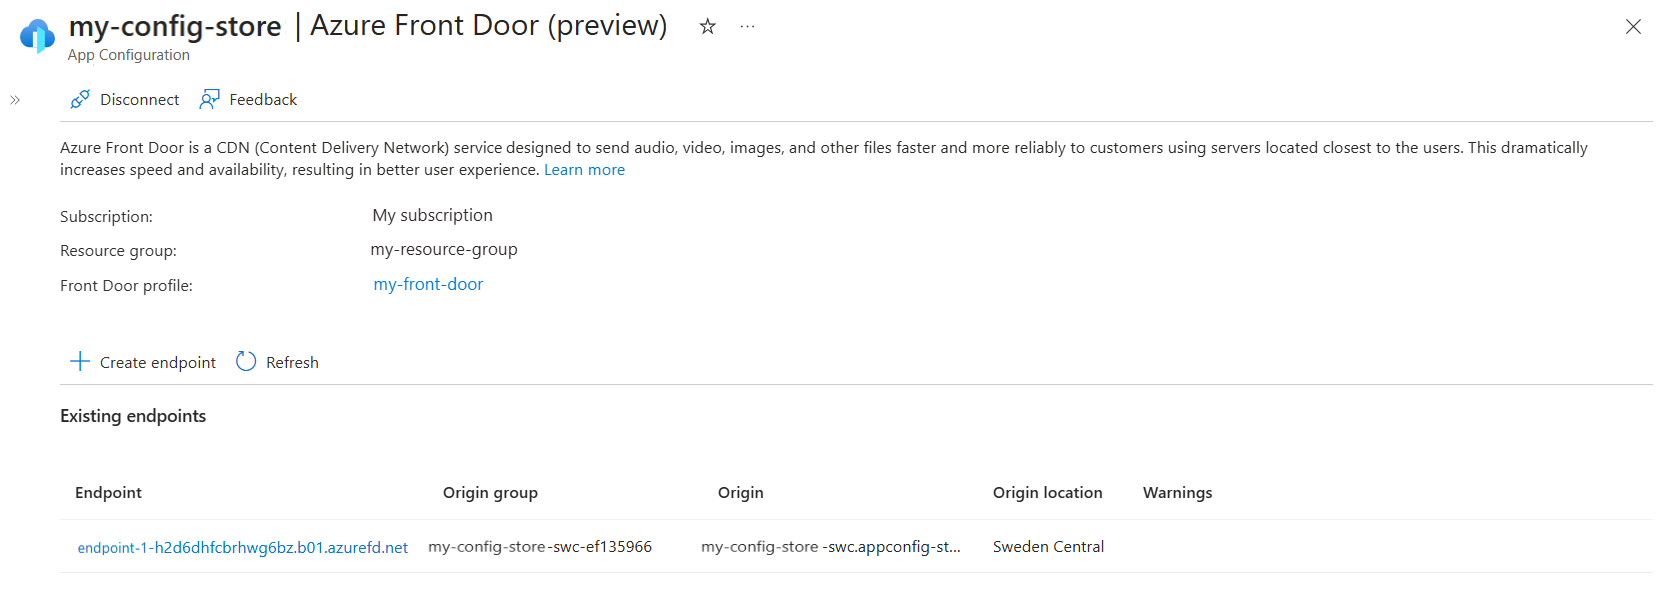
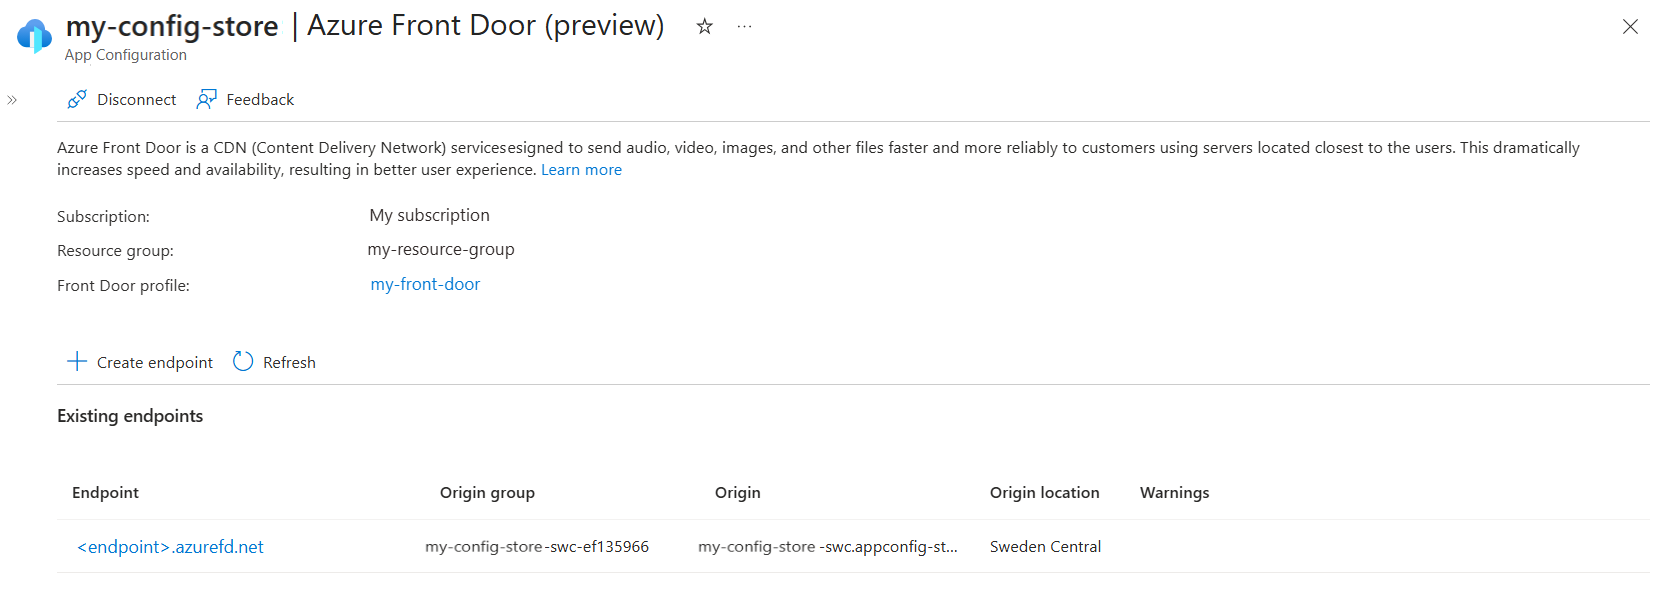
Update screenshots and remove include file

diff --git a/articles/azure-app-configuration/how-to-connect-azure-front-door.md b/articles/azure-app-configuration/how-to-connect-azure-front-door.md
@@ -51,6 +51,8 @@ To integrate Azure Front Door with your App Configuration store, follow these st
 
 Create a new Azure Front Door profile and connect it to your App Configuration store.
 
+#### Basic settings
+
 1. In **Profile name**, enter a name for your new Azure Front Door profile.
 
     :::image type="content" source="media/how-to-connect-azure-front-door/create-profile.png" alt-text="Screenshot showing creation of a new Azure Front Door profile in the App Configuration store."
@@ -62,13 +64,36 @@ Create a new Azure Front Door profile and connect it to your App Configuration s
 
    For a detailed overview and comparison of Azure Front Door pricing tiers, see [Compare pricing between Azure Front Door tiers](/azure/frontdoor/understanding-pricing).
 
-1. Create an endpoint that uses this App Configuration store as origin:
+1. Create an endpoint that uses this App Configuration store as origin, and configure the following settings:
 
-   [!INCLUDE [azure-app-configuration-create-front-door-endpoint-connection](../../includes/azure-app-configuration-create-front-door-endpoint.md)]
+#### Endpoint configuration settings
+
+   - Basic settings:
+
+      - **Endpoint name**: Enter a descriptive name for your endpoint
+      - **Endpoint host name**: Automatically generated based on your endpoint name
+      - **Origin host name**: Select your App Configuration store and any replicas from the dropdown. These are added to the origin group so Azure Front Door can route traffic to them. For details on how origin groups improve availability and performance, see [Azure Front Door routing methods](/azure/frontdoor/routing-methods).
+
+        :::image type="content" source="../articles/azure-app-configuration/media/how-to-connect-azure-front-door/endpoint-details.png" alt-text="Screenshot showing  Azure Front Door endpoint details in the App Configuration store."
+
+   - **Identity type**: Choose the managed identity type for Azure Front Door to access your App Configuration store:
+
+      - **System assigned managed identity**: Automatically enabled; no additional selection required.
+      - **User assigned managed identity**: Select the managed identity from the dropdown.
+
+   - **Cache Duration for Azure Front Door**: Configure cache duration to balance performance and origin load. We recommend a minimum TTL of 10 minutes, but you can choose a value that fits your application. Content loaded from AFD will be eventually consistent. Setting the cache duration too short may increase origin requests and lead to throttling. For more details about caching, see [Caching with Azure Front Door](/azure/frontdoor/front-door-caching).
+
+   - **Filter Configuration to scope the request**: Configure one or more filters to control which requests pass through Azure Front Door. This prevents accidental exposure of sensitive configuration and ensures only the settings your application needs are accessible. The filters here must exactly match those used in your application code; otherwise, requests will be rejected by Azure Front Door.
+      
+      > [!NOTE]
+      > To setup the right scoping filters, you need to know what filters are used in your application to load key-values or snapshots from App Configuration. For example, if your application needs to load keys that start with the *App1:* prefix, and a snapshot whose name is *MySnapshot*, enter those values in the Key and Snapshot name filters.
+   
+      - **Key**: The key filter to apply when querying Azure App Configuration for key-values. Reserved characters: asterisk (`*`), comma (`,`), and backslash (`\`) must be escaped using a backslash (`\`) when filtering multiple key-values.
+      - **Label**: The label filter to apply when querying Azure App Configuration for key-values. Reserved characters: asterisk (`*`), comma (`,`), and backslash (`\`) must be escaped using a backslash (`\`) when filtering multiple key-values.
+      - **Tags**: The tag name and value filter to apply when querying Azure App Configuration for key-values. Reserved characters: asterisk (`*`), comma (`,`), backslash (`\`), and equals (`=`) must always be escaped using a backslash (`\`).
+      - **Snapshot name**: Name of snapshot whose content should be accessible through this Azure Front Door endpoint. You can select one or more snapshots to restrict access to specific snapshots.
 
    - Select **Create & Connect** to create the profile and establish the connection.
-
-After successfully connecting to Azure Front Door, you might want to [create additional endpoints](#create-endpoints) for different scenarios.
 
 ### Connect to an existing Azure Front Door profile
 
@@ -78,25 +103,17 @@ After successfully connecting to Azure Front Door, you might want to [create add
 
 1. Select **Connect** to establish the connection.
 
-After successful connection, you see your subscription information, the connected Azure Front Door profile name as a clickable link, and an **Existing Endpoints** section. Any endpoints in the connected Azure Front Door profile that use this App Configuration store or its replicas as an origin appear here.
+1. After successful connection, you see your subscription information, the connected Azure Front Door profile name as a clickable link, and an **Existing Endpoints** section. Any endpoints in the connected Azure Front Door profile that use this App Configuration store or its replicas as an origin appear here.
+
+1. To create additional endpoints, select **Create endpoint**, [configure the endpoint](#endpoint-configuration-settings), and select **Create**.
+
+Endpoints appear in the **Existing endpoints** table, showing the endpoint URL, origin URL, origin location, and any configuration warnings that need attention.
 
 ## Manage endpoints
 
-### Create endpoints
-
-After connecting to an Azure Front Door profile, you can create multiple endpoints, for example, to apply different request scopes for separate applications.
-
-1. From the Azure Front Door page in your App Configuration store, select **Create Endpoint**.
-
-   [!INCLUDE [azure-app-configuration-create-front-door-endpoint-connection](../../includes/azure-app-configuration-create-front-door-endpoint.md)]
-
-   - Select **Create** to create the new endpoint.
-
-The new endpoint appears in the **Existing endpoints** table, showing the endpoint URL, origin URL, origin location, and any configuration warnings that need attention.
-
 ### Monitor endpoint status
 
-Use the **Existing Endpoints** table to monitor your Azure Front Door endpoints and identify configuration issues.
+Use the **Existing endpoints** table to monitor your Azure Front Door endpoints and identify configuration issues.
 
 :::image type="content" source="media/how-to-connect-azure-front-door/existing-connections.png" alt-text="Screenshot showing Azure Front Door connections in the App Configuration store." lightbox="media/how-to-connect-azure-front-door/existing-connections.png":::
 
